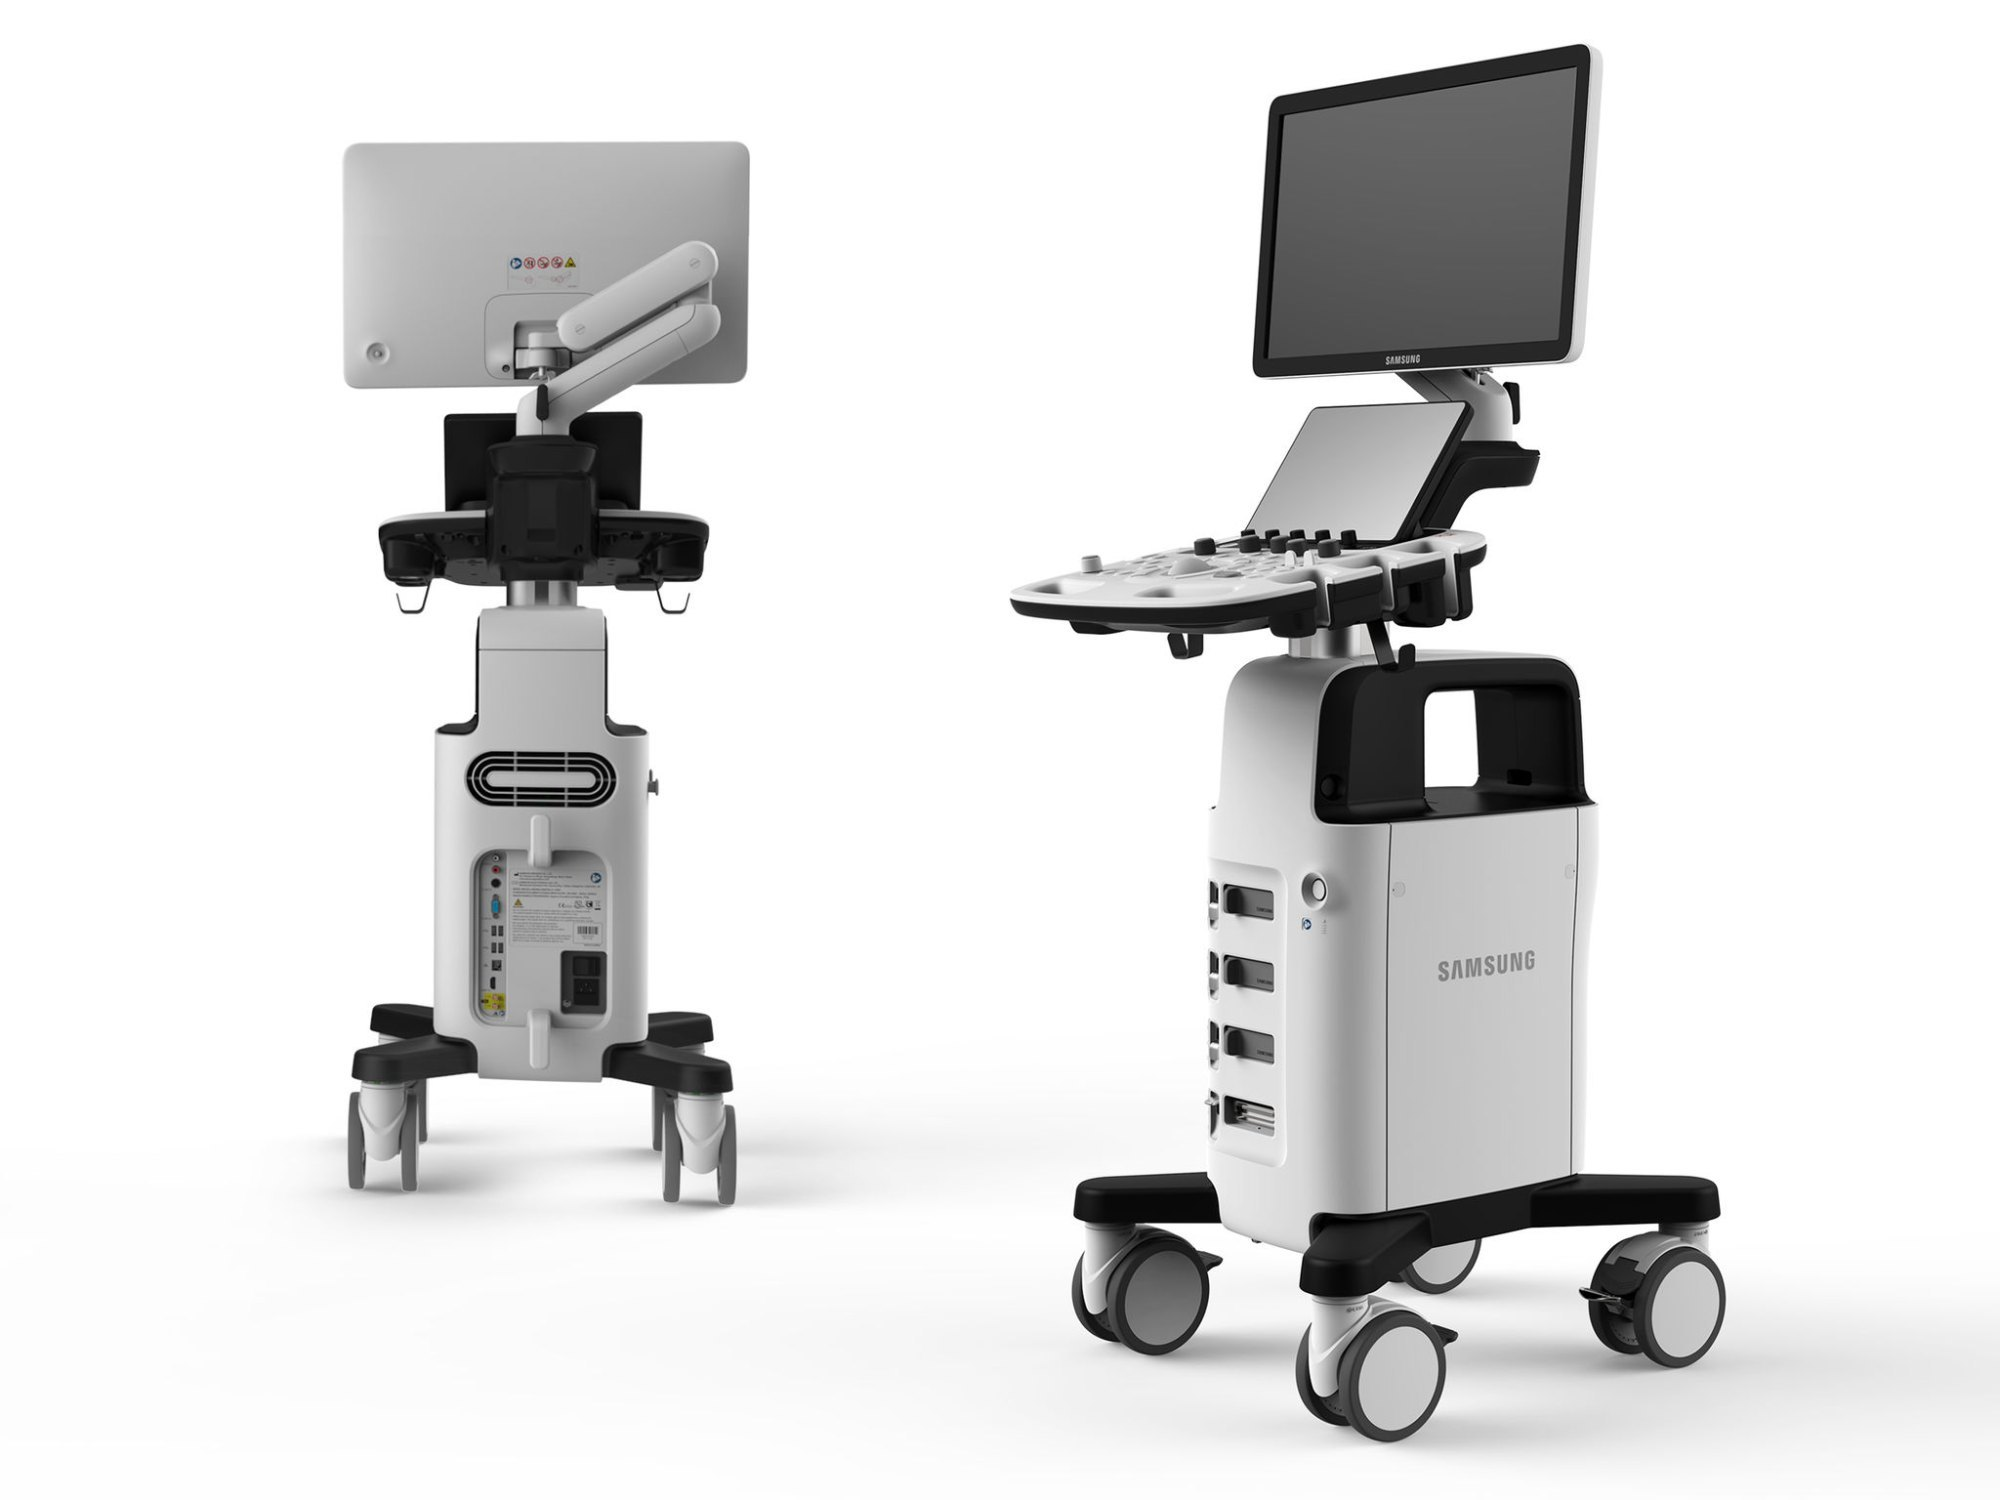
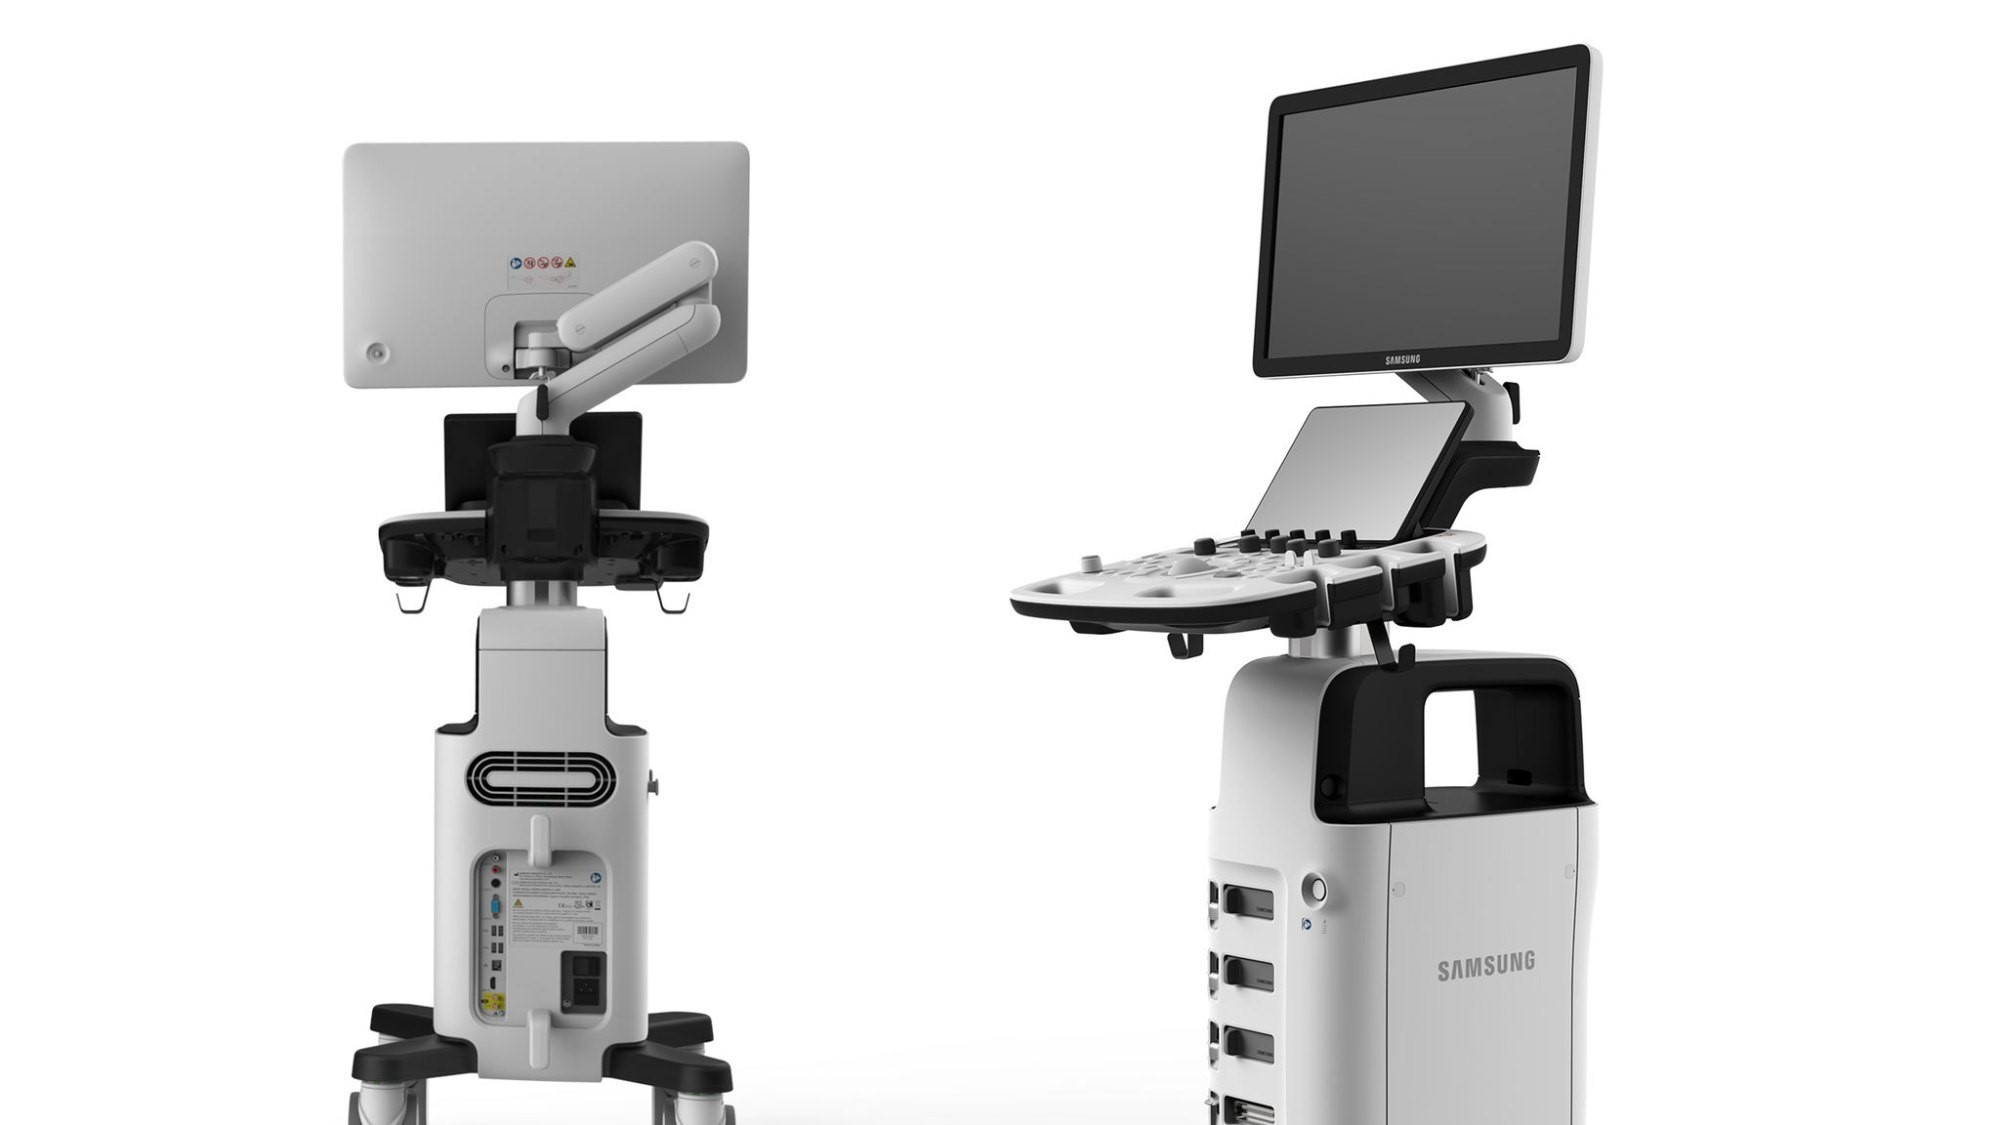
up hero

Changed region(s): [[0.496, 0.0311, 0.961, 1.0], [0.155, 0.1556, 0.403, 1.0], [0.155, 0.0933, 0.372, 0.1244]]

diff --git a/hero/hero.html b/hero/hero.html
@@ -11,12 +11,11 @@
 
         .hero-component-scope .hero {
             position: relative;
-            height: 800px;
-            min-height: 500px;
             width: 100%;
+            aspect-ratio: 16 / 9;
+            min-height: 0;
             overflow: hidden;
             background-color: #f5f5f5;
-            padding-bottom: 50px;
             margin-bottom: 50px;
         }
 
@@ -53,7 +52,7 @@
             left: 0;
             width: 100%;
             height: 100%;
-            background: rgba(0, 0, 0, 0.5);
+            background: rgba(0, 0, 0, 0.3);
         }
 
         .hero-component-scope .content {
@@ -205,6 +204,7 @@
         /* Responsive */
         @media (max-width: 768px) {
             .hero-component-scope .hero {
+                aspect-ratio: auto;
                 height: auto;
                 min-height: 100vh;
             }
@@ -260,15 +260,7 @@
                         <li>
                             <strong>Khám chuyên sâu</strong> Với trang thiết bị hiện đại:
                         </li>
-                        <ul class="strengths-list-child">
-                            <li><strong>Nhà thuốc GPP:</strong> do các dược sĩ đại học kinh nghiệm tư vấn.</li>
-                            <li><strong>Tai Mũi Họng:</strong> Hệ thống nội soi tiên tiến.</li>
-                            <li><strong>Sản khoa:</strong> Khám thai định kỳ, siêu âm thai, sàng lọc trước sinh và đo tim thai không dây.</li>
-                            <li><strong>Phụ khoa:</strong> Hệ thống soi quang học chuyên dụng, hỗ trợ khám và tầm soát phụ khoa.</li>
-                            <li><strong>Nội khoa:</strong> được hỗ trợ bằng máy siêu âm và máy đo điện tim ECG 12 chuyển đạo.</li>
-                            <li><strong>Nhi khoa:</strong> được hỗ trợ khám với máy siêu âm.</li>
-                            <li><strong>Siêu âm:</strong> Siêu âm tổng quát, sản phụ khoa, tuyến giáp, tuyến vú và các khảo sát chuyên sâu.</li>
-                        </ul>
+
                     </ul>
                 </div>
             </div>
@@ -295,7 +287,7 @@
                 {
                     title: 'Tai Mũi Họng',
                     images: ['hero/image/hero2.jpg', 'hero/image/hero2.png'],
-                    diseases: ['Hệ thống nội soi tiên tiến.']
+                    diseases: ['Hệ thống nội soi tiên tiến.', 'Khám và điều trị bệnh lý tai mũi họng.', 'Tầm soát ung thư vòm họng.']
                 },
                 {
                     title: 'Sản khoa',
@@ -315,12 +307,12 @@
                 {
                     title: 'Nhi khoa',
                     images: ['hero/image/hero5.jpg', 'hero/image/hero5.JPG'],
-                    diseases: ['Được hỗ trợ khám với máy siêu âm.']
+                    diseases: ['Được hỗ trợ khám với máy siêu âm', 'Khám và điều trị các bệnh lý nhi khoa hô hấp', 'Tiêu hóa', 'Dinh dưỡng', 'Tư vấn tăng trưởng', 'sàng lọc sơ sinh', 'tư vấn tiêm chủng.']
                 },
                 {
                     title: 'Siêu âm',
                     images: ['hero/image/hero6.jpg', 'hero/image/hero6.JPG', 'hero/image/hero6.png'],
-                    diseases: ['Siêu âm tổng quát', 'Siêu âm sản phụ khoa', 'Siêu âm tuyến giáp, tuyến vú và các khảo sát chuyên sâu']
+                    diseases: ['Siêu âm tổng quát', 'Siêu âm sản phụ khoa', 'Siêu âm tuyến giáp, tuyến vú và các khảo sát chuyên sâu, thực hiện các thủ thuật chọc hút dưới hướng dẫn siêu âm.']
                 }
             ];
 